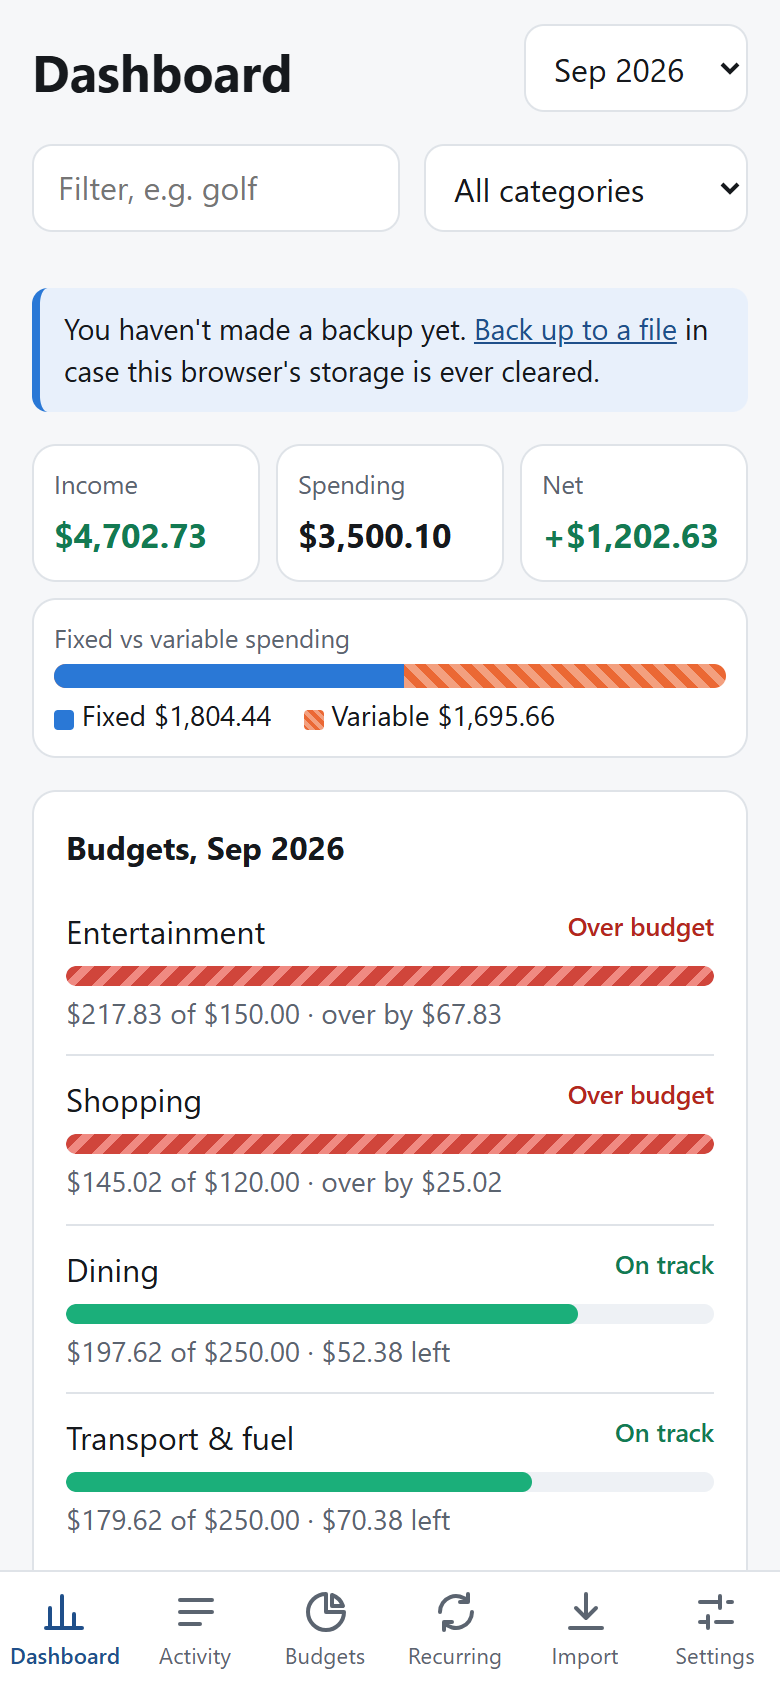
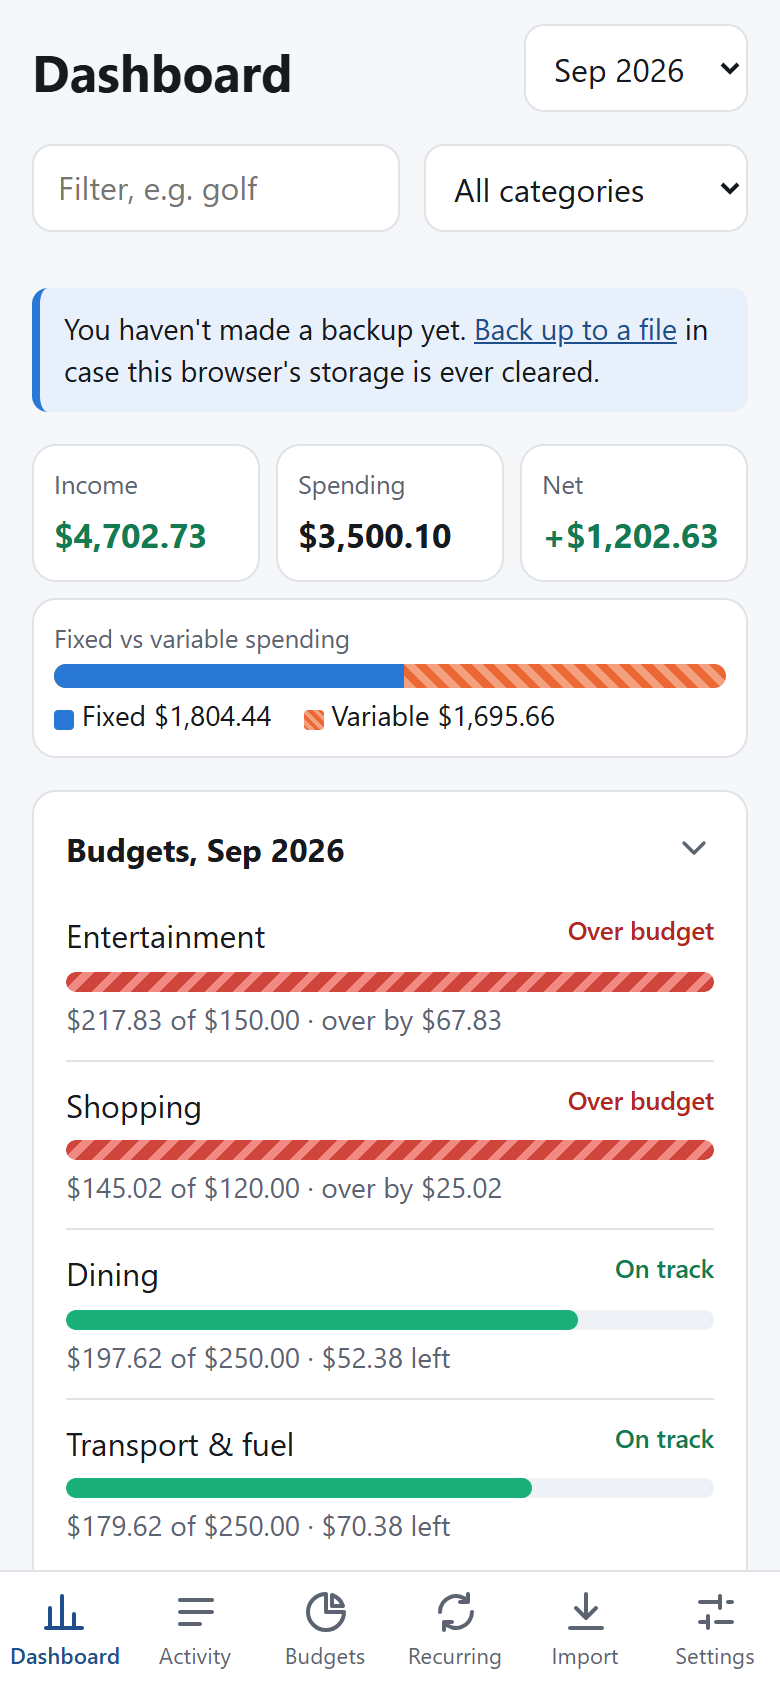
Update README screenshots and notes for mobile polish

Changed region(s): [[0.0615, 0.4929, 0.9231, 0.9242], [0.7692, 0.8318, 0.9231, 0.8626], [0.7692, 0.7393, 0.9231, 0.7701]]

diff --git a/README.md b/README.md
@@ -729,3 +729,10 @@ Milestone 2 added Recharts 3. Milestones 3 and 4 added no dependencies (WebCrypt
   Tab inside it and returns focus to the row that opened it, all text meets WCAG AA contrast in light and dark mode, and
   charts stop animating when the system asks for reduced motion. On narrow phones the tab bar shows "Activity" and
   "Recurring" (screen readers still hear the full names).
+- **Collapsible dashboard cards.** Budgets, Tithing, Accounts and every chart can be collapsed; a collapsed card shows a
+  one-line summary (e.g. "2 over budget", "Net after card $X"). The choice is remembered per device in `localStorage`
+  (layout only, no data). Income vs spending and Balance over time start collapsed. Collapsed charts don't query.
+- **Month in progress.** For the current month the KPIs read "Spent so far" and "Net so far", and Income says "None yet"
+  (with a neutral, not red, net) until the first paycheck lands.
+- **Subscription cost uses the latest charge**, not the median (section 9.5 detection still uses the median), so a price
+  increase shows in the monthly and yearly totals at once.
